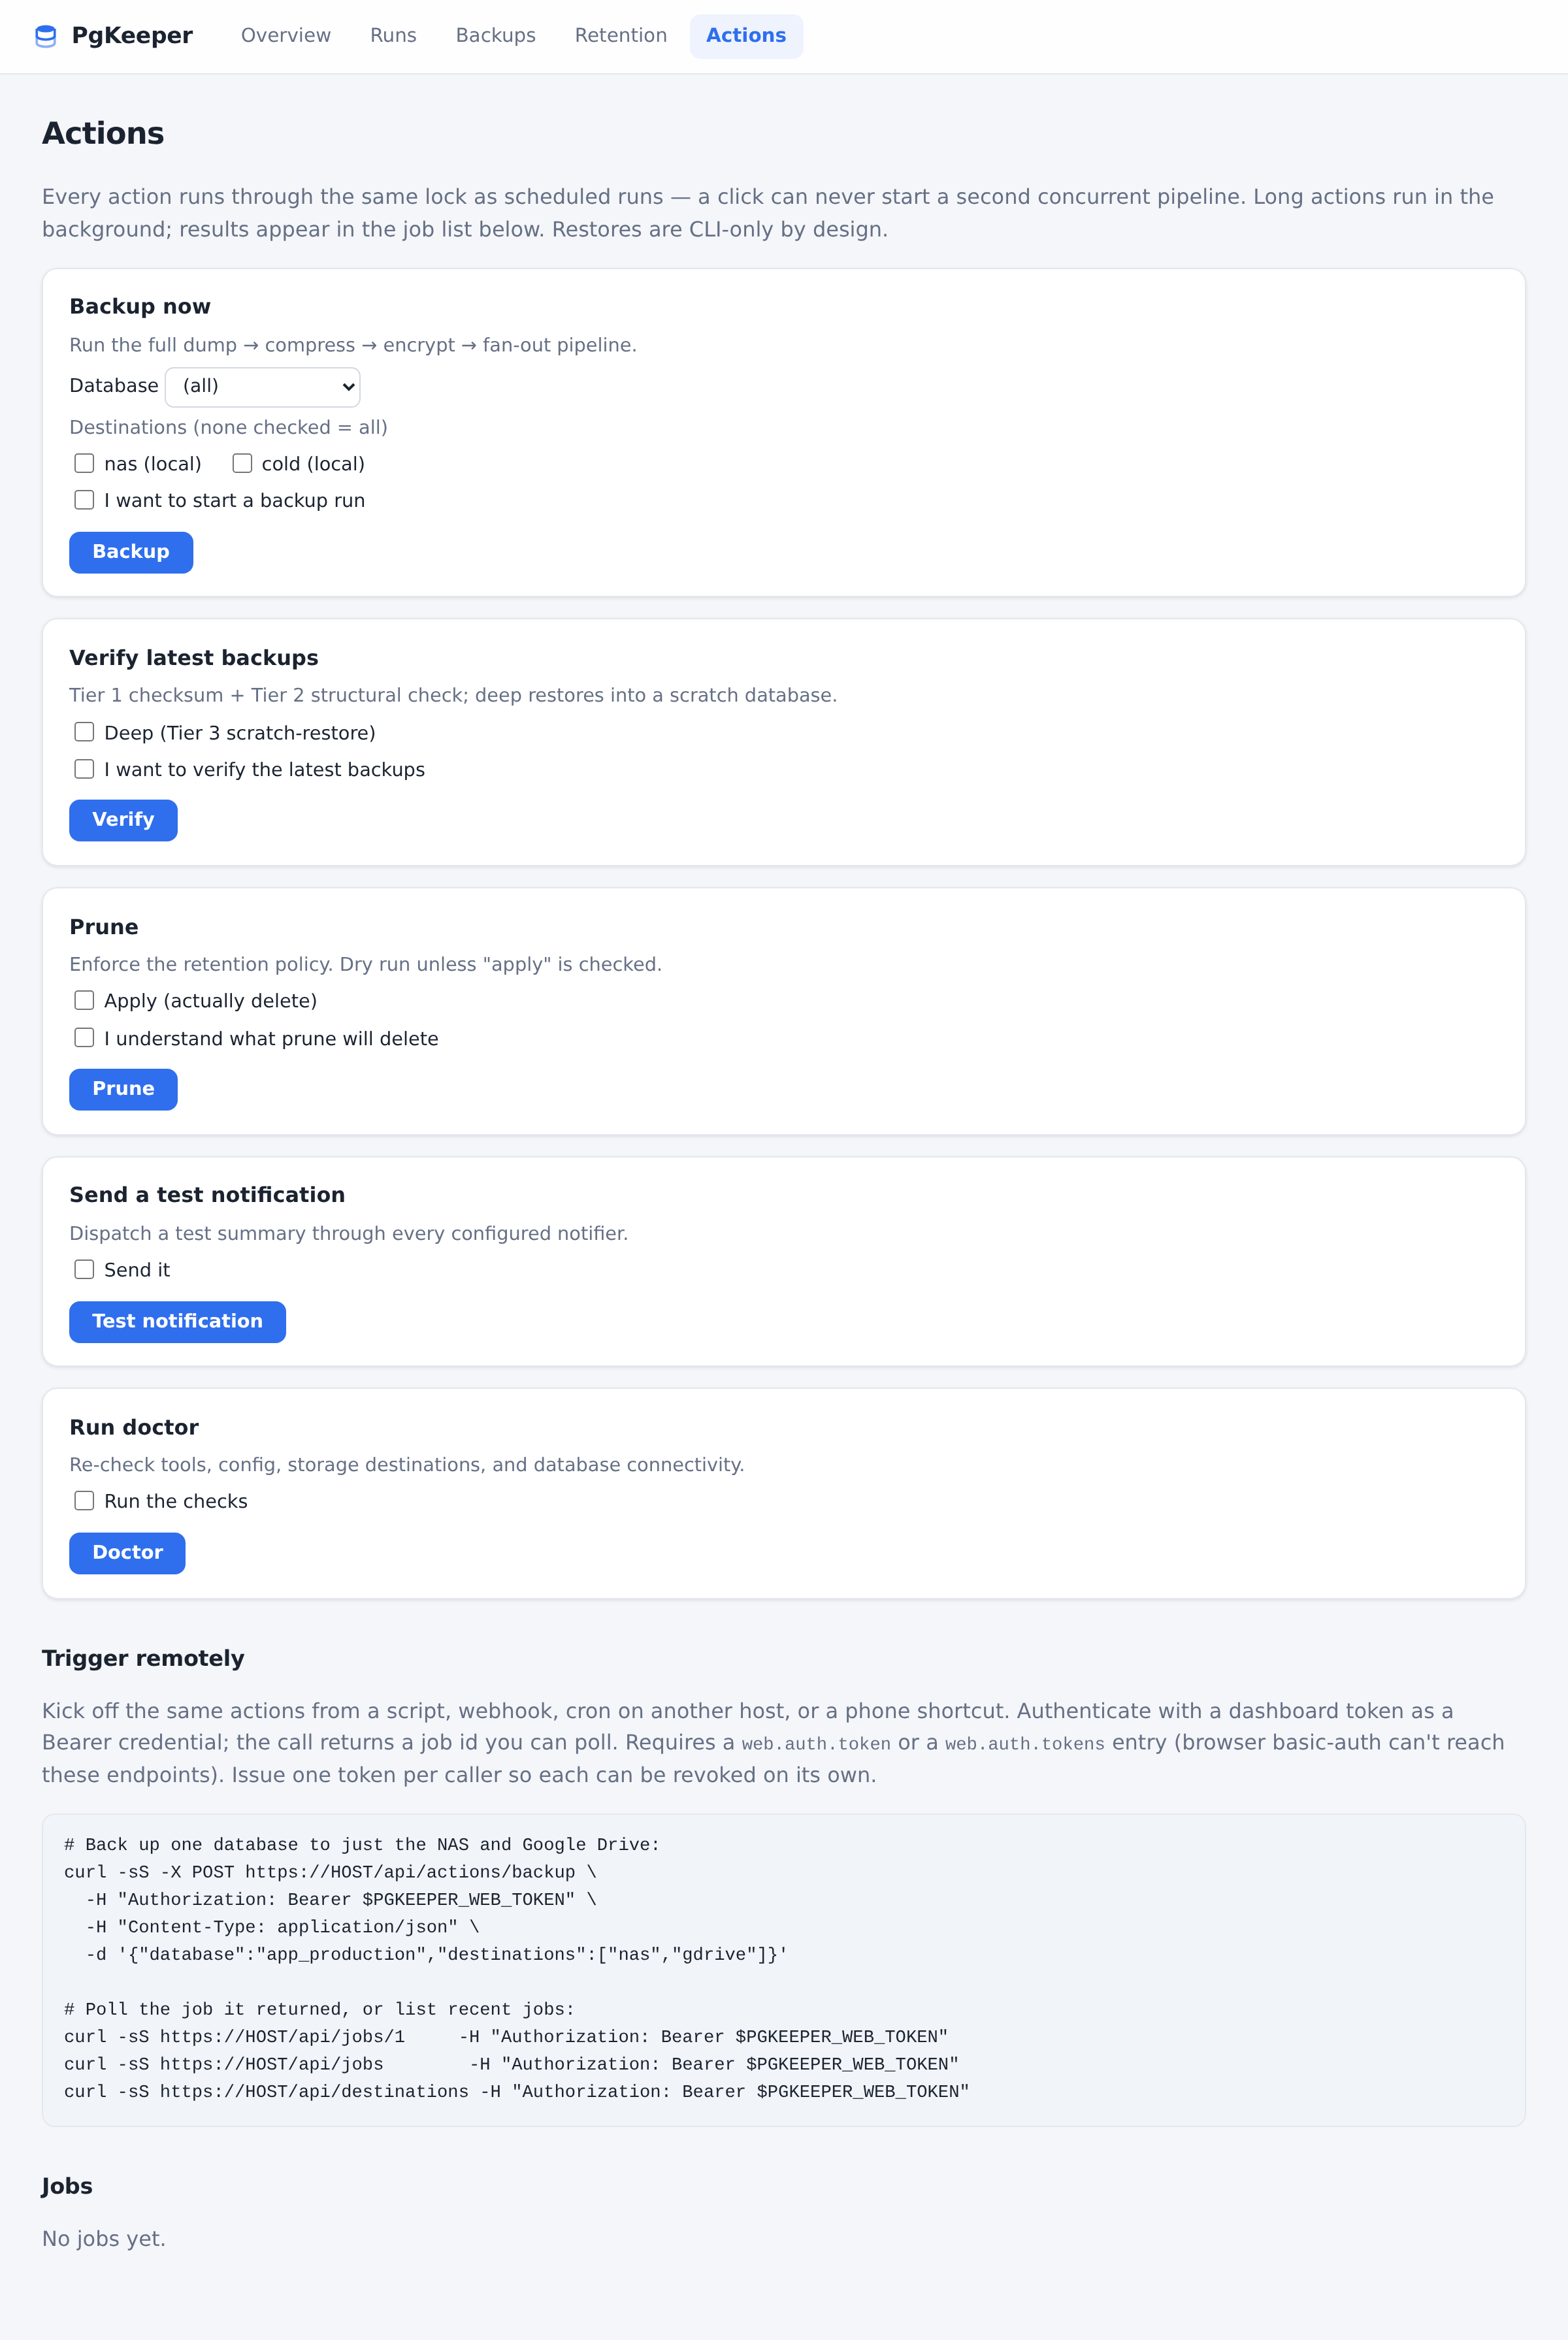
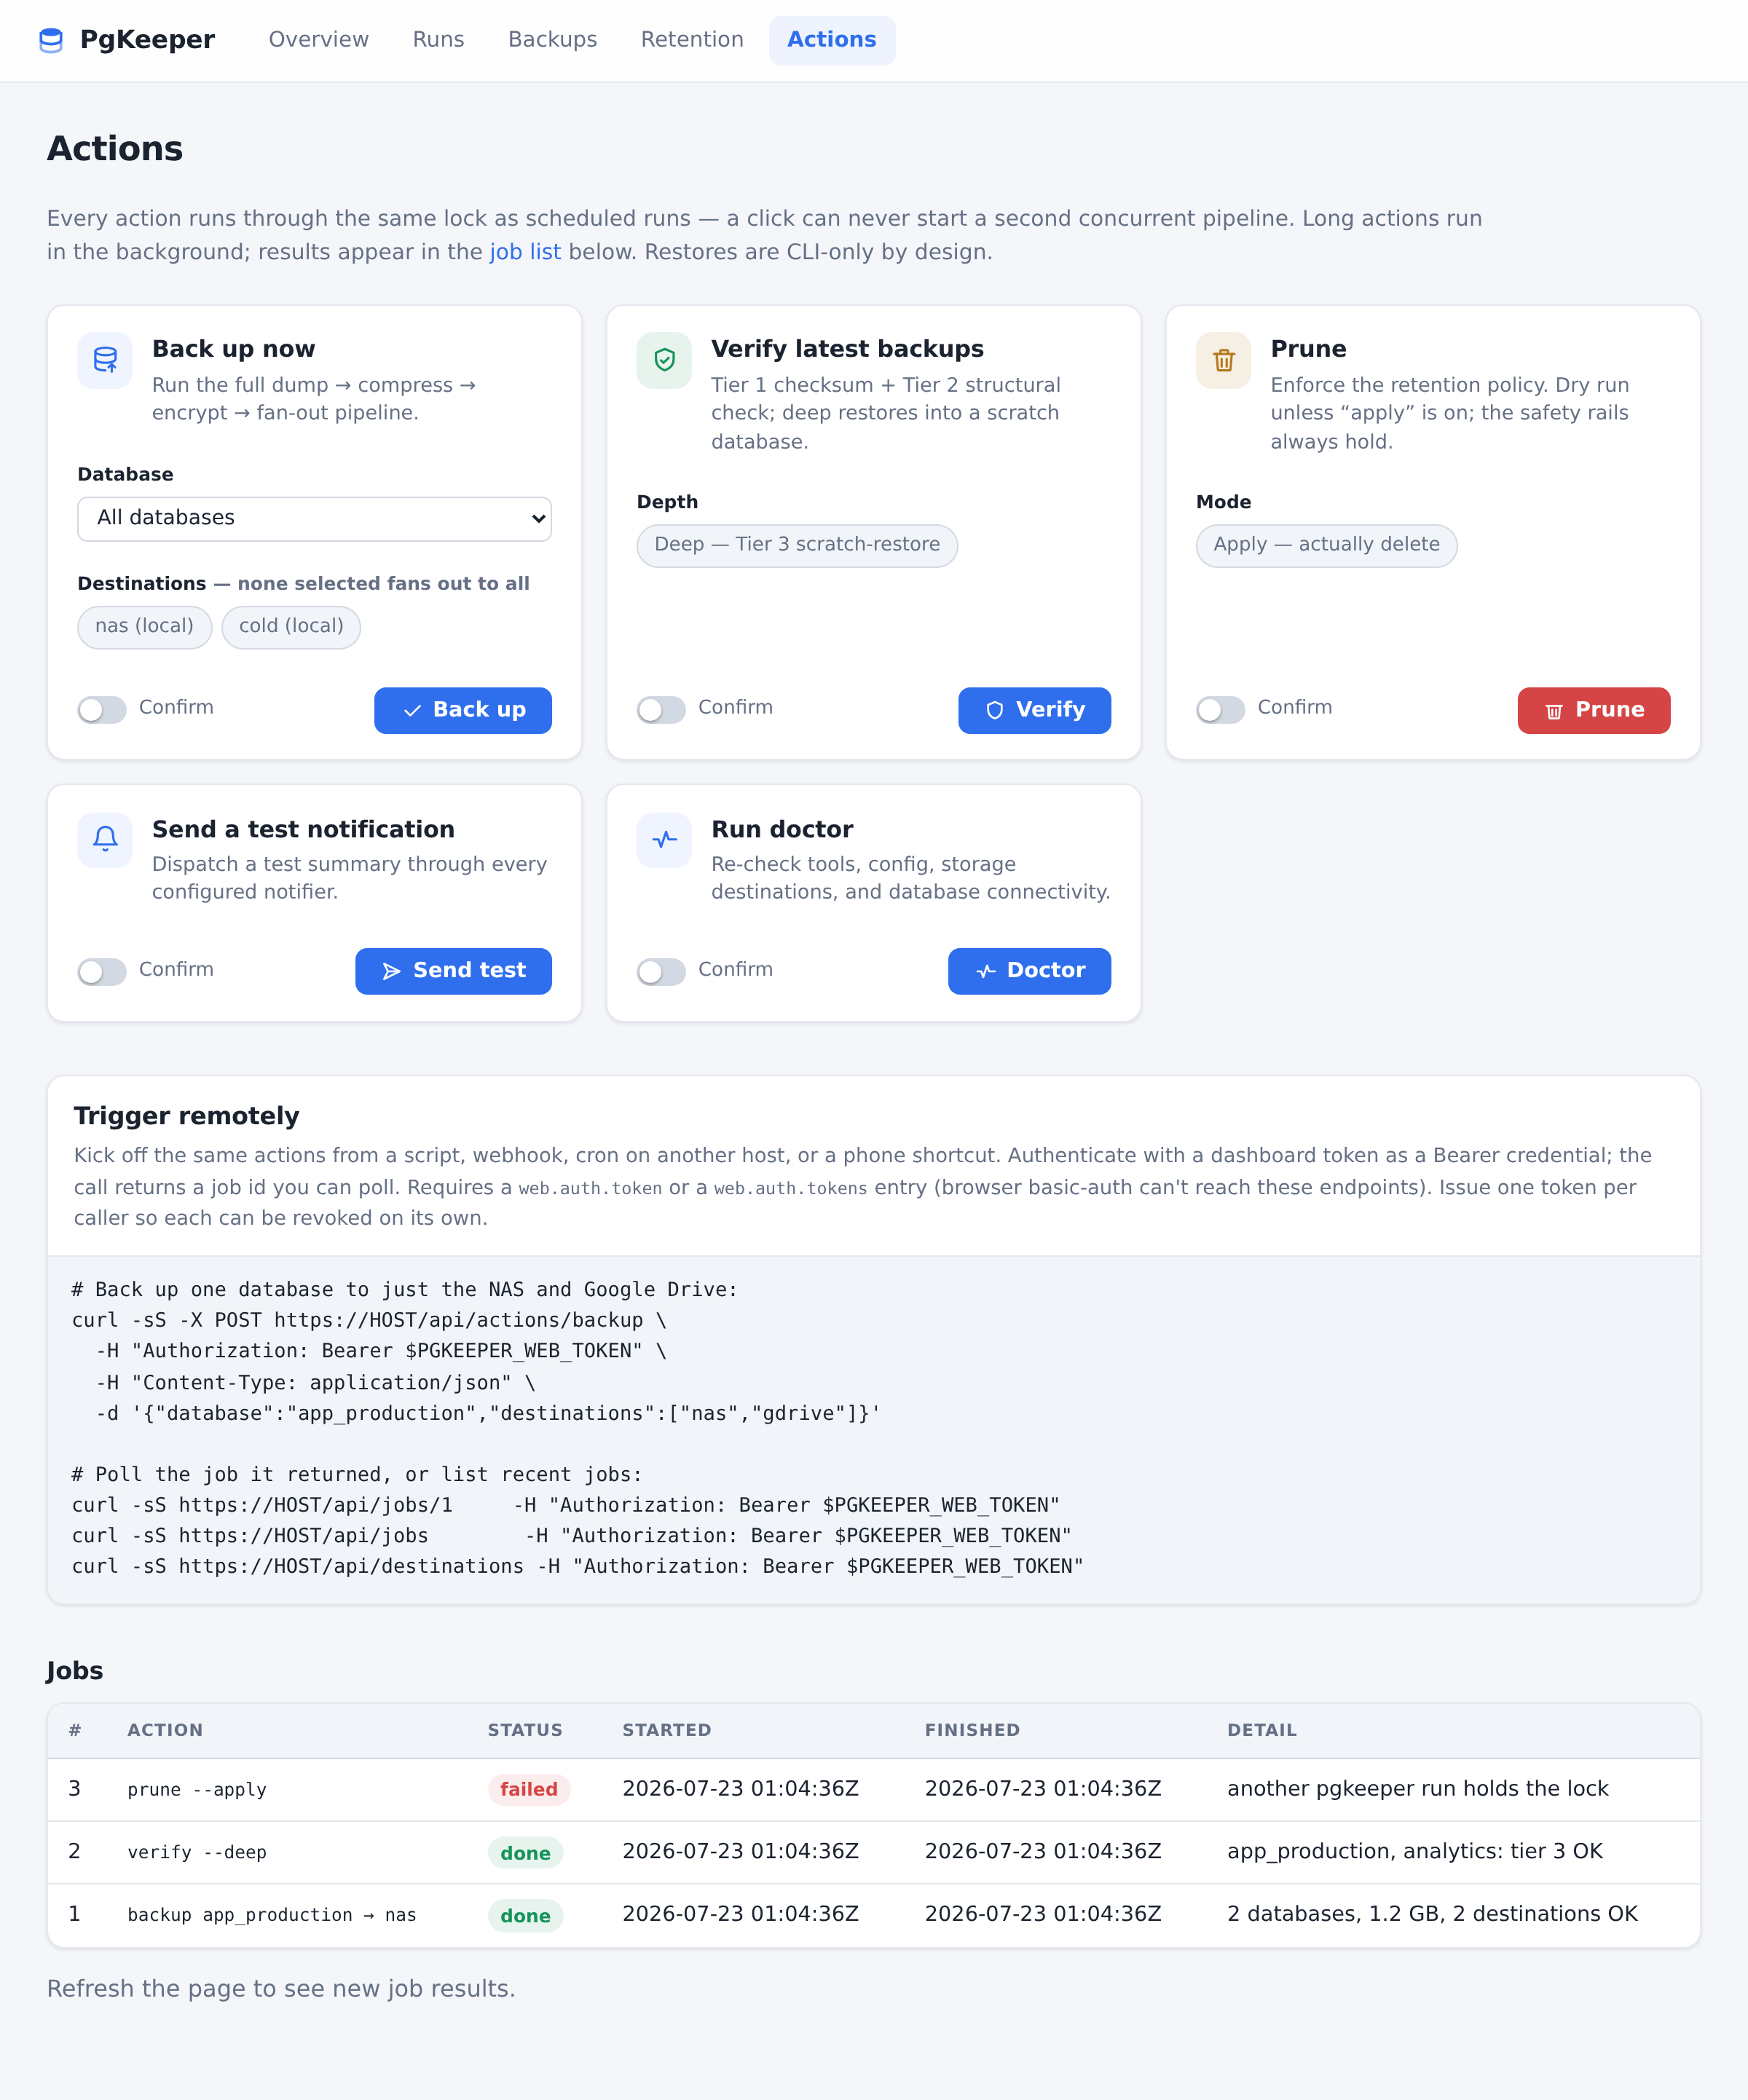
Modernize the dashboard Actions page
Redesign the Actions page from a stack of plain forms into a responsive grid
of action cards, keeping the same routes, field names, and POST contract so the
CSRF/confirm guards and the JSON API are untouched.

Each card gains an icon in a tinted badge, and its controls are modernized:
the destination and option checkboxes become selectable "chips" (styled via
:has(:checked)), and the confirmation gate is a toggle switch. The destructive
Prune action reads in a danger accent (chip, switch, and button). The
remote-trigger curl recipes move into a titled panel, the Jobs heading gets a
jump anchor, and the jobs list auto-refreshes (a small guarded inline script)
while a job is still running.

All new styling is driven by the existing design tokens, so it adapts to light
and dark exactly like the rest of the dashboard. Regenerate
docs/images/dashboard-actions.png from the redesigned page.

Claude-Session: https://claude.ai/code/session_0124yNZtG2YxE3WAnDNyAuAZ

diff --git a/CHANGELOG.md b/CHANGELOG.md
@@ -85,6 +85,14 @@ All notable changes to PgKeeper. Versions map to the milestones in
   and header fills, tinted status pills (replacing plain colored text), and
   accent-colored buttons and form controls. Purely presentational — the
   templates, routes, data, and auth are unchanged.
+- **Modernized the Actions page.** The stacked forms are now a responsive grid
+  of action cards, each with an icon, selectable destination/option "chips"
+  (replacing bare checkboxes), and a toggle-switch confirmation gate; the
+  destructive Prune action reads in a danger accent. The remote-trigger recipes
+  moved into a titled panel, the jobs list gained a jump link, and it now
+  auto-refreshes while a job is running. Field names and the POST contract are
+  unchanged, so the CSRF/confirm guards and the JSON API behave exactly as
+  before.
 
 ### Added
 